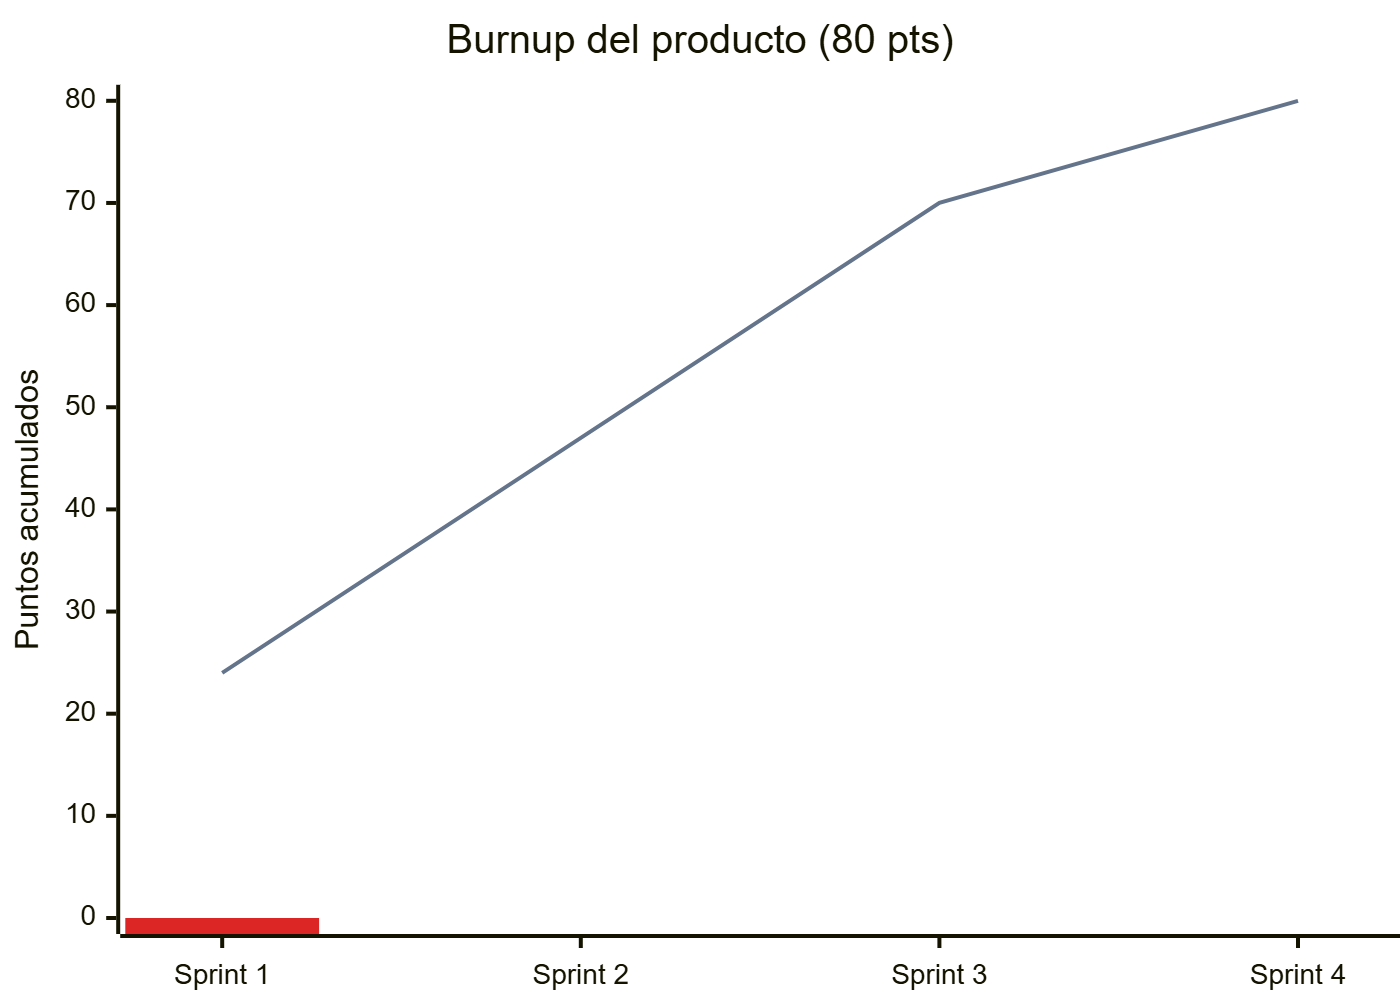
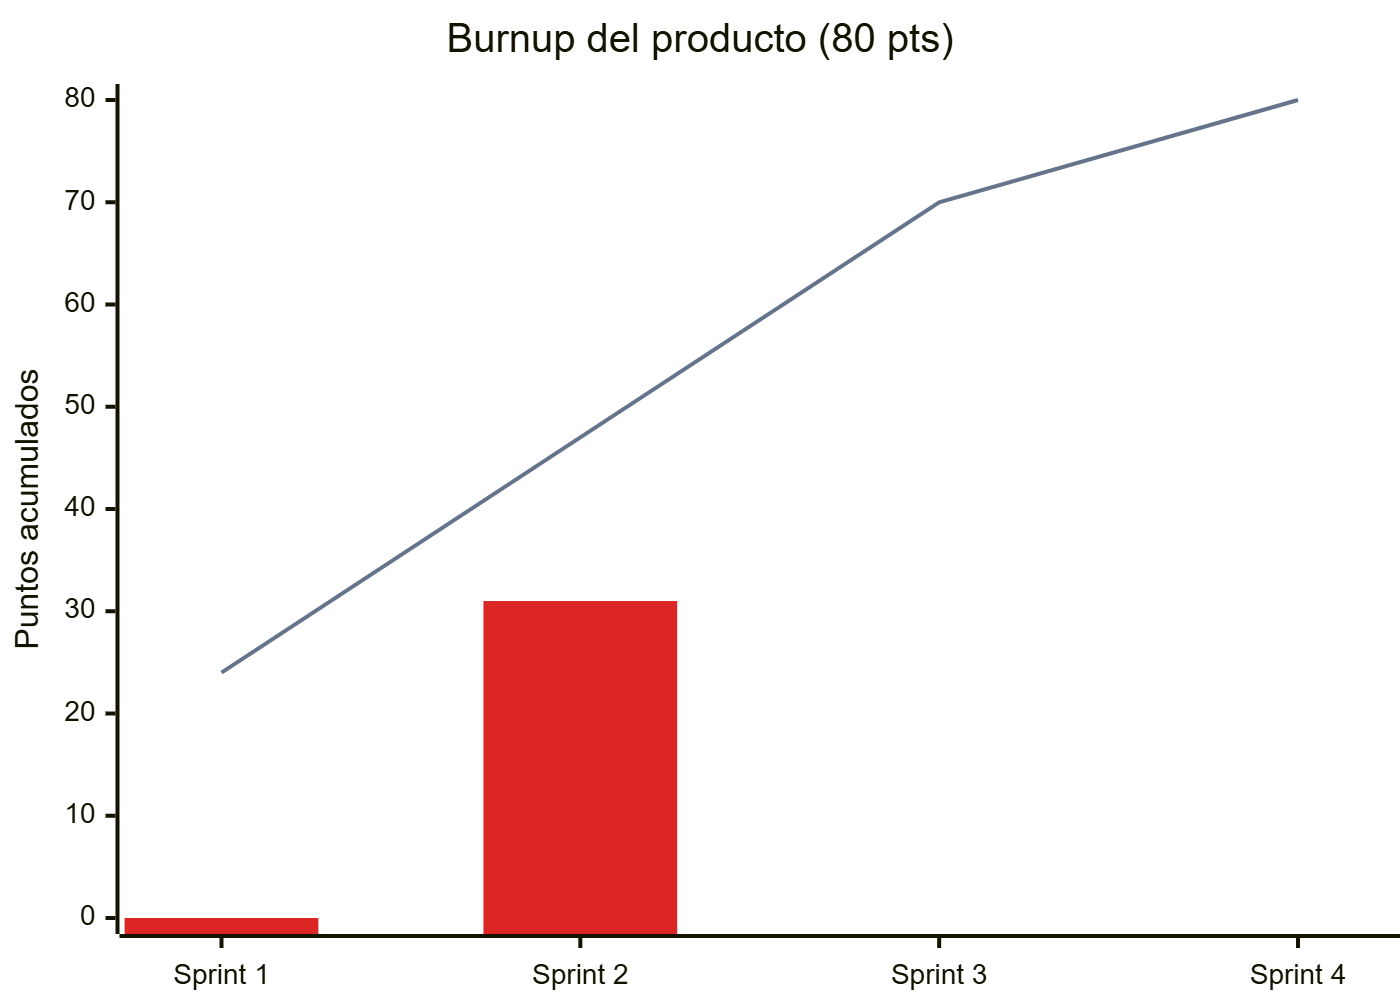
docs(scrum): integra HU-03, HU-04 y D-01 de Miguel en el tablero y el documento
- sprint backlog: 31/47 pts, restan 16 (HU-02, HU-09, HU-05 de Gonzalo)
- burndown al día 10 y burnup actualizados; imágenes regeneradas
- casos de uso exportados a img/casos-de-uso.png y enlazados en 4.4/4.5

diff --git a/docs/scrum/documento-scrum.md b/docs/scrum/documento-scrum.md
@@ -90,23 +90,23 @@ Estados: ⬜ Por hacer · 🟨 En progreso · 🟦 En revisión (PR abierto) · 
 | T-02 | Pantalla login, contexto de sesión, guard por rol, logout | HU-01 | | Sosa | ✅ |
 | T-03 | Store del carrito + input de escaneo | HU-02 | 5 | Gonzalo | ⬜ |
 | T-04 | Producto no encontrado + búsqueda manual | HU-02 | | Gonzalo | ⬜ |
-| T-05 | Captura de peso, conversión g→kg, validaciones | HU-03 | 8 | Miguel | ⬜ |
-| T-06 | Cálculo de precio a granel + integración al carrito + pruebas | HU-03 | | Miguel | ⬜ |
+| T-05 | Captura de peso, conversión g→kg, validaciones | HU-03 | 8 | Miguel | ✅ |
+| T-06 | Cálculo de precio a granel + integración al carrito + pruebas | HU-03 | | Miguel | ✅ |
 | T-07 | `POST /ventas`: recálculo, pagos mixtos, cambio, descuento de stock | HU-06 | 8 | Sosa | ✅ |
 | T-08 | Pantalla de cobro (pago mixto, referencia, cambio) | HU-06 | | Sosa | ✅ |
 | T-09 | Abrir caja (turno) y bloqueo de venta sin turno | HU-05 | 8 | Gonzalo | ⬜ |
 | T-10 | Registrar pago a proveedor | HU-09 | 3 | Gonzalo | ⬜ |
 | T-11 | Corte: totales por método, efectivo esperado, cierre con diferencia | HU-05 | | Gonzalo | ⬜ |
 | T-12 | CRUD cajeros (crear, suspender, eliminar lógico, reset password) | HU-12 | 5 | Sosa | ✅ |
-| T-13 | Consulta de inventario con búsqueda | HU-04 | 2 | Miguel | ⬜ |
+| T-13 | Consulta de inventario con búsqueda | HU-04 | 2 | Miguel | ✅ |
 | T-14 | Alta de producto y entrada de existencias + movimientos | HU-08 | 5 | Sosa (reasignada) | ✅ |
-| D-01 | Diagrama de casos de uso + descripciones | Doc | — | Miguel | ⬜ |
+| D-01 | Diagrama de casos de uso + descripciones | Doc | — | Miguel | ✅ |
 | D-02 | Prototipos principales y de alertas | Doc | — | Gonzalo | ⬜ |
 | D-03 | Diagrama de clases, burndown/burnup, documento Scrum | Doc | — | Sosa | 🟨 |
 
-**Total comprometido:** 47 pts · **Completado:** 21 pts al 26 de octubre (HU-01, HU-06, HU-12, HU-08).
+**Total comprometido:** 47 pts · **Completado:** 31 pts al 28 de octubre (HU-01, HU-06, HU-12, HU-08, HU-03, HU-04).
 
-> Nota: estados al 26 de octubre; la fuente viva es `docs/scrum/sprint-backlog.md`. Sincronizar antes de la versión final.
+> Nota: estados al 28 de octubre; la fuente viva es `docs/scrum/sprint-backlog.md`. Sincronizar antes de la versión final.
 
 ### 4.3 Diagrama de clases
 
@@ -118,11 +118,15 @@ El diagrama de clases y el diagrama entidad-relación se generan desde el modelo
 
 ### 4.4 Diagrama de casos de uso
 
-> Pendiente: Miguel
+Actores cajero, administrador y jefe, con herencia de permisos (el jefe hereda del administrador y este del cajero), y los nueve casos de uso de los Sprints 1 y 2. Fuente: `docs/diagramas/casos-de-uso.md` (Miguel Angel Marcelo Taracena).
+
+![Diagrama de casos de uso](../diagramas/img/casos-de-uso.png)
 
 ### 4.5 Descripciones de casos de uso con prototipos
 
-> Pendiente: Miguel
+Las nueve descripciones (objetivo, precondiciones, flujo principal, alternos, postcondiciones y trazabilidad a los criterios de aceptación) están en `docs/diagramas/casos-de-uso.md`. Las capturas de las pantallas de granel e inventario están en `docs/evidencias/miguel/`.
+
+> Pendiente: vincular los prototipos de Gonzalo (D-02) a cada caso.
 
 ### 4.6 Prototipos principales
 
@@ -155,7 +159,7 @@ La gráfica de burnup del producto (puntos acumulados completados contra el plan
 
 ### 4.11 Burn Down
 
-La gráfica de burndown del Sprint 2 (puntos restantes por día contra la línea ideal de 47 a 0) se mantiene en `docs/scrum/burndown.md`, sección "Gráficas", y se actualiza diariamente. Al día 8 (26 oct) quedan 26 puntos: se integraron HU-01, HU-06, HU-12 y HU-08 (21 pts).
+La gráfica de burndown del Sprint 2 (puntos restantes por día contra la línea ideal de 47 a 0) se mantiene en `docs/scrum/burndown.md`, sección "Gráficas", y se actualiza diariamente. Al día 10 (28 oct) quedan 16 puntos: se integraron HU-01, HU-06, HU-12, HU-08, HU-03 y HU-04 (31 pts). Lo restante es HU-02, HU-09 y HU-05 (Gonzalo).
 
 ![Burndown Sprint 2](../diagramas/img/burndown.png)
 

diff --git a/docs/scrum/sprint-backlog.md b/docs/scrum/sprint-backlog.md
@@ -10,18 +10,18 @@ Estados: ⬜ Por hacer · 🟨 En progreso · 🟦 En revisión (PR abierto) · 
 | T-02 | Pantalla login, contexto de sesión, guard por rol, logout | HU-01 | | Sosa | ✅ | #1 | 26 oct |
 | T-03 | Store del carrito + input de escaneo | HU-02 | 5 | Gonzalo | ⬜ | | |
 | T-04 | Producto no encontrado + búsqueda manual | HU-02 | | Gonzalo | ⬜ | | |
-| T-05 | Captura de peso, conversión g→kg, validaciones | HU-03 | 8 | Miguel | 🟦 | #8 | |
-| T-06 | Cálculo de precio a granel + integración al carrito + pruebas | HU-03 | | Miguel | 🟦 | #8 | |
+| T-05 | Captura de peso, conversión g→kg, validaciones | HU-03 | 8 | Miguel | ✅ | #8 | 28 oct |
+| T-06 | Cálculo de precio a granel + integración al carrito + pruebas | HU-03 | | Miguel | ✅ | #8 | 28 oct |
 | T-07 | `POST /ventas`: recálculo, pagos mixtos, cambio, descuento de stock | HU-06 | 8 | Sosa | ✅ | #3 | 26 oct |
 | T-08 | Pantalla de cobro (pago mixto, referencia, cambio) | HU-06 | | Sosa | ✅ | #3 | 26 oct |
 | T-09 | Abrir caja (turno) y bloqueo de venta sin turno | HU-05 | 8 | Gonzalo | ⬜ | | |
 | T-10 | Registrar pago a proveedor | HU-09 | 3 | Gonzalo | ⬜ | | |
 | T-11 | Corte: totales por método, efectivo esperado, cierre con diferencia | HU-05 | | Gonzalo | ⬜ | | |
 | T-12 | CRUD cajeros (crear, suspender, eliminar lógico, reset password) | HU-12 | 5 | Sosa | ✅ | #2 | 26 oct |
-| T-13 | Consulta de inventario con búsqueda | HU-04 | 2 | Miguel | 🟦 | #9 | |
+| T-13 | Consulta de inventario con búsqueda | HU-04 | 2 | Miguel | ✅ | #9 | 28 oct |
 | T-14 | Alta de producto y entrada de existencias + movimientos | HU-08 | 5 | Sosa (reasignada) | ✅ | #7 | 26 oct |
-| D-01 | Diagrama de casos de uso + descripciones | Doc | — | Miguel | 🟦 | #10 | |
+| D-01 | Diagrama de casos de uso + descripciones | Doc | — | Miguel | ✅ | #10 | 28 oct |
 | D-02 | Prototipos principales y de alertas | Doc | — | Gonzalo | ⬜ | | |
 | D-03 | Diagrama de clases, burndown/burnup, documento Scrum | Doc | — | Sosa | 🟨 | | |
 
-**Total comprometido:** 47 pts · **Completado:** 21 pts (HU-01, HU-06, HU-12, HU-08) · **Restante:** 26 pts
+**Total comprometido:** 47 pts · **Completado:** 31 pts (HU-01, HU-06, HU-12, HU-08, HU-03, HU-04) · **Restante:** 16 pts (todo de Gonzalo: HU-02, HU-09, HU-05)

diff --git a/docs/scrum/burndown.md b/docs/scrum/burndown.md
@@ -14,8 +14,8 @@ Actualizar cada día con los puntos de HU **completamente hechas** (DoD) al cier
 | 6 | 24 oct | 28.9 | 47 | |
 | 7 | 25 oct | 25.3 | 47 | |
 | 8 | 26 oct | 21.7 | 26 | Se integran HU-01, HU-06, HU-12 y HU-08 (PRs #1–#3, #7) |
-| 9 | 27 oct | 18.1 | | |
-| 10 | 28 oct | 14.5 | | |
+| 9 | 27 oct | 18.1 | 26 | Miguel abre PRs #8–#10 |
+| 10 | 28 oct | 14.5 | 16 | Se integran HU-03 y HU-04 (Miguel) |
 | 11 | 29 oct | 10.8 | | |
 | 12 | 30 oct | 7.2 | | |
 | 13 | 31 oct | 3.6 | | |
@@ -36,9 +36,9 @@ Para la gráfica: pedir a la IA `genera la gráfica de burndown/burnup como Merm
 
 Actualizar las series "real" al llenar las tablas de arriba. Imágenes exportadas: [`burndown.png`](../diagramas/img/burndown.png), [`burnup.png`](../diagramas/img/burnup.png).
 
-### Burndown Sprint 2 (al 26 oct)
+### Burndown Sprint 2 (al 28 oct)
 
-Línea gris: ideal (47 → 0). Línea roja: real restante (días 1–8).
+Línea gris: ideal (47 → 0). Línea roja: real restante (días 1–10).
 
 ```mermaid
 %%{init: {"themeVariables": {"xyChart": {"plotColorPalette": "#64748b, #dc2626"}}}}%%
@@ -47,12 +47,12 @@ xychart-beta
     x-axis ["19 oct", "20 oct", "21 oct", "22 oct", "23 oct", "24 oct", "25 oct", "26 oct", "27 oct", "28 oct", "29 oct", "30 oct", "31 oct", "1 nov"]
     y-axis "Puntos restantes" 0 --> 50
     line [47.0, 43.4, 39.8, 36.2, 32.5, 28.9, 25.3, 21.7, 18.1, 14.5, 10.8, 7.2, 3.6, 0.0]
-    line [47, 47, 47, 47, 47, 47, 47, 26]
+    line [47, 47, 47, 47, 47, 47, 47, 26, 26, 16]
 ```
 
 ### Burnup del producto (80 pts)
 
-Línea gris: plan acumulado. Barras rojas: real acumulado (Sprint 1 = 0; Sprint 2 parcial al 26 oct = 21).
+Línea gris: plan acumulado. Barras rojas: real acumulado (Sprint 1 = 0; Sprint 2 parcial al 28 oct = 31).
 
 ```mermaid
 %%{init: {"themeVariables": {"xyChart": {"plotColorPalette": "#64748b, #dc2626"}}}}%%
@@ -61,5 +61,5 @@ xychart-beta
     x-axis ["Sprint 1", "Sprint 2", "Sprint 3", "Sprint 4"]
     y-axis "Puntos acumulados" 0 --> 80
     line [24, 47, 70, 80]
-    bar [0, 21]
+    bar [0, 31]
 ```

diff --git a/docs/07-scrum-entregables.md b/docs/07-scrum-entregables.md
@@ -12,8 +12,8 @@ Borrador del documento: `docs/scrum/documento-scrum.md`.
 | 4.1 Pila de producto | Backlog priorizado | Sosa | `docs/02-backlog.md` | ✅ |
 | 4.2 Pila del sprint | Tareas de S1+S2 con estado | Todos | `docs/scrum/sprint-backlog.md` | ⬜ |
 | 4.3 Diagrama de clases | Desde `schema.prisma` | Sosa | `docs/diagramas/clases.md` | 🟨 |
-| 4.4 Diagrama de casos de uso | Actores: cajero, admin, jefe | Miguel | `docs/diagramas/casos-de-uso.md` | ⬜ |
-| 4.5 Descripciones de casos de uso con prototipos | 1 por HU de S1+S2 | Miguel | `docs/diagramas/casos-de-uso.md` | ⬜ |
+| 4.4 Diagrama de casos de uso | Actores: cajero, admin, jefe | Miguel | `docs/diagramas/casos-de-uso.md` → `img/casos-de-uso.png` | ✅ |
+| 4.5 Descripciones de casos de uso con prototipos | 1 por HU de S1+S2 | Miguel | `docs/diagramas/casos-de-uso.md` | 🟨 (faltan prototipos de Gonzalo) |
 | 4.6 Prototipos principales | Login, venta, cobro, caja, inventario, usuarios | Gonzalo | `docs/prototipos/` | ⬜ |
 | 4.7 Prototipos de alertas | Producto no encontrado, pago insuficiente, diferencia en corte, usuario suspendido… | Gonzalo | `docs/prototipos/` | ⬜ |
 | 4.8 Sprint | Duración 2 semanas, fechas | Sosa | `docs/01-vision-y-equipo.md` | 🟨 |

diff --git a/docs/diagramas/README.md b/docs/diagramas/README.md
@@ -1,9 +1,9 @@
 # Diagramas (Mermaid)
 
 - `clases.md` — diagrama de clases / ER (Sosa) → `img/clases.png`, `img/er.png`
-- `casos-de-uso.md` — casos de uso y descripciones (Miguel)
+- `casos-de-uso.md` — casos de uso y descripciones (Miguel) → `img/casos-de-uso.png`
 - burndown / burnup: en `docs/scrum/burndown.md` (Sosa) → `img/burndown.png`, `img/burnup.png`
 
 ## Exportar a imagen
 
-Las imágenes de `img/` se generan desde los bloques Mermaid de `clases.md` y `docs/scrum/burndown.md`. Si cambian, regenerarlas (pídeselo a la IA: "exporta los diagramas Mermaid a PNG en docs/diagramas/img") o pegar el bloque en https://mermaid.live y descargar PNG.
+Las imágenes de `img/` se generan desde los bloques Mermaid de `clases.md`, `casos-de-uso.md` y `docs/scrum/burndown.md`. Si cambian, regenerarlas (pídeselo a la IA: "exporta los diagramas Mermaid a PNG en docs/diagramas/img") o pegar el bloque en https://mermaid.live y descargar PNG.
